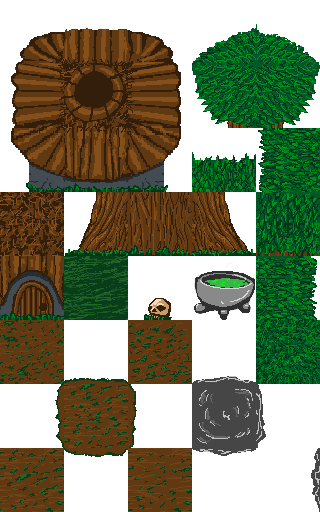
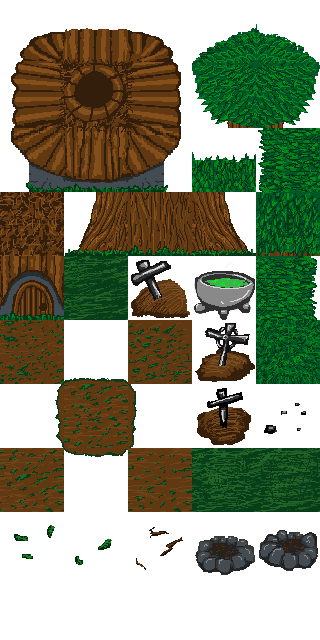
MOAR

diff --git a/silence/silence/MapGenerator.cpp b/silence/silence/MapGenerator.cpp
@@ -63,7 +63,28 @@ void MapGenerator::generateNew(size_t w, size_t h)
 }
 void MapGenerator::placeDoodad(int x, int y)
 {
-	 
+
+	sf::IntRect doodadRect(x, y, 1, 1);
+
+	if (isClear(doodadRect))
+	{
+		std::vector<sf::Vector2i> doodadSprites;
+		doodadSprites.push_back(sf::Vector2i(2, 4));
+		doodadSprites.push_back(sf::Vector2i(3, 4));
+		doodadSprites.push_back(sf::Vector2i(3, 5));
+		doodadSprites.push_back(sf::Vector2i(3, 6));
+		doodadSprites.push_back(sf::Vector2i(3, 8));
+		doodadSprites.push_back(sf::Vector2i(4, 8));
+
+		if (x >= 0 && x < mMap.getWidth() &&
+			y >= 0 && y < mMap.getHeight())
+		{
+			mMap[x][y].setSprite(1, doodadSprites[std::rand() % doodadSprites.size()]);
+		}
+
+	}
+	
+
 }
 
 void MapGenerator::placeHut(int x, int y)

diff --git a/silence/silence/MapManager.cpp b/silence/silence/MapManager.cpp
@@ -14,7 +14,7 @@ MapManager::MapManager()
 
 void MapManager::render()
 {
-	int bufferdepth[3] = {-2 , -1 , 2};
+	int bufferdepth[3] = {-3 , -2 , 3};
 
 	Map& map = mMapGenerator.getMap();
 	WindowManager* window = WindowManager::getInstance();

diff --git a/silence/silence/BulletSpineMace.cpp b/silence/silence/BulletSpineMace.cpp
@@ -31,7 +31,7 @@ void BulletSpineMace::ResolveCollision(Entity* entity){
 	if(entity->isID("Enemy")){
 		Enemy* enemy = dynamic_cast<Enemy*>(entity);
 		if(enemy){
-		enemy->doDamage(5);
+			enemy->doDamage(5);
 		}
 	}
 }

diff --git a/silence/silence/StateManager.cpp b/silence/silence/StateManager.cpp
@@ -20,6 +20,7 @@ StateManager::~StateManager()
 
 void StateManager::add(State* state){
 	mStack.push(state);
+	clock.restart();
 }
 
 void StateManager::update(){
